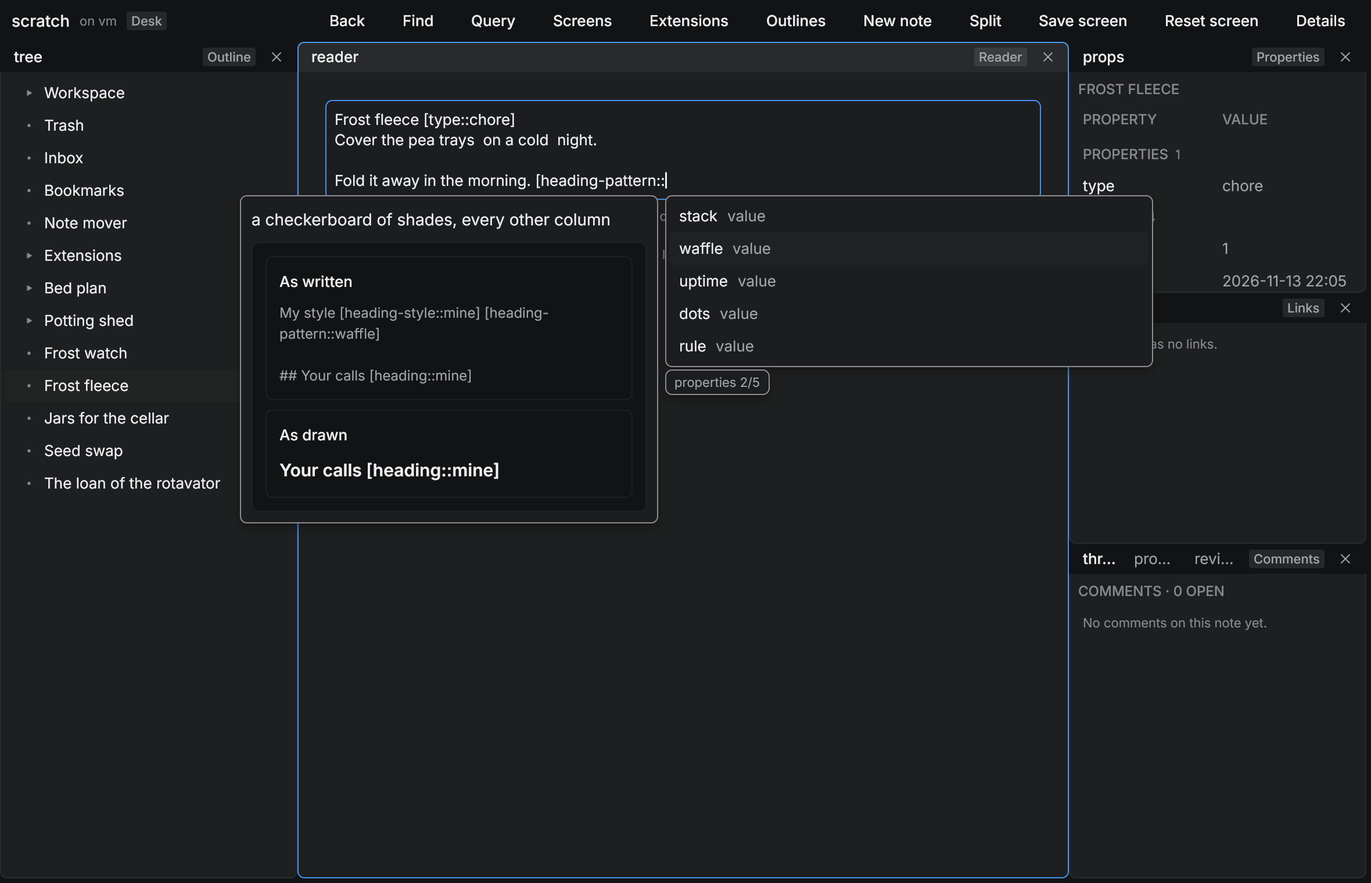
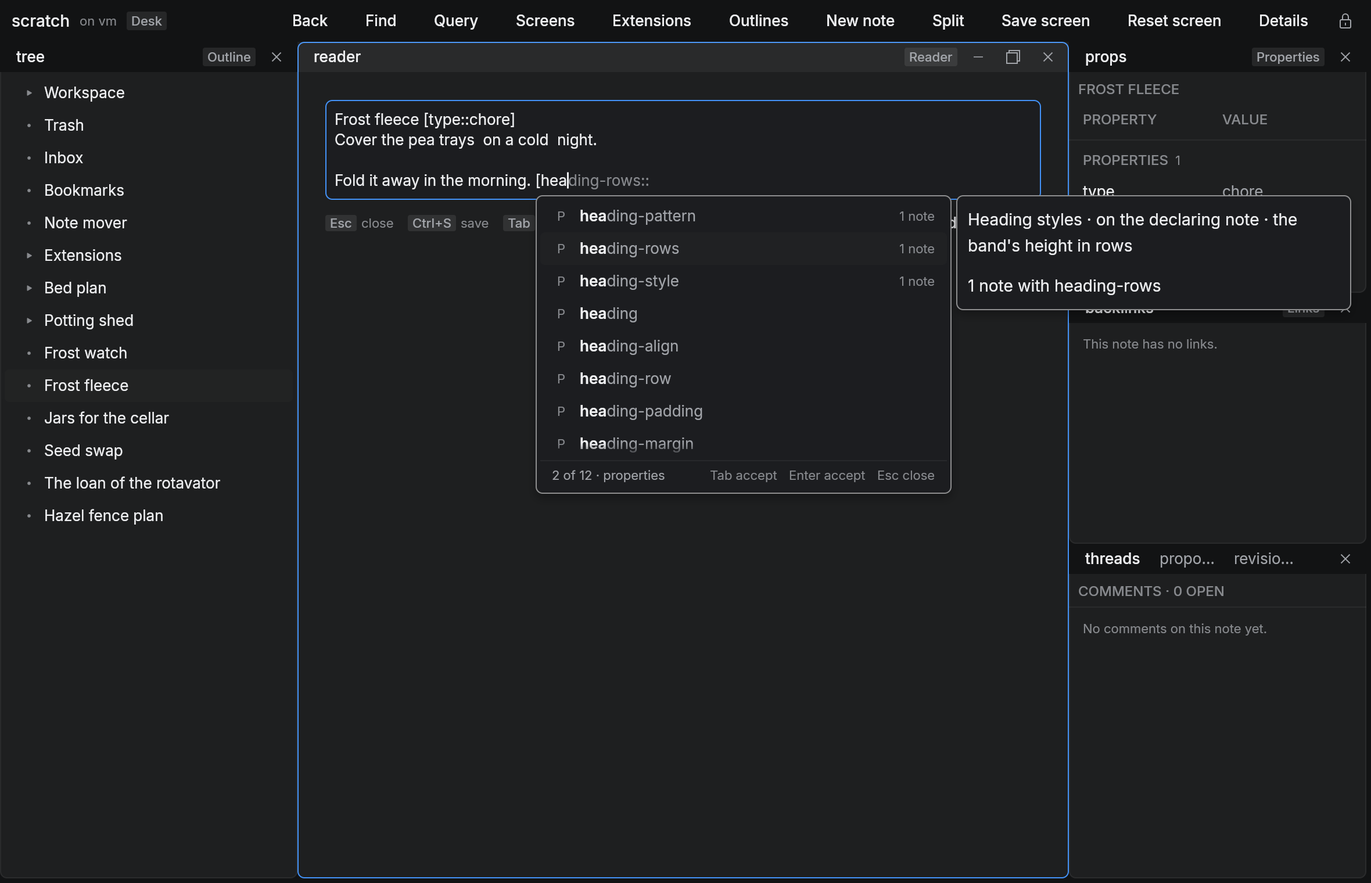
native H5: the scenes and their pictures, the live chain, and the scans that hold the one list
Claude-Session: https://claude.ai/code/session_01YahWSsU53UQFjh3cbq4VFn

diff --git a/packages/native/src/tests/live.rs b/packages/native/src/tests/live.rs
@@ -1417,3 +1417,79 @@ fn live_a_block_is_written_as_in_the_door_a_paste_keeps_its_lines_tab_indents_an
         assert!(words(&rt.state).ends_with(&format!("[heading-pattern::{}]", found.rows[1].label)), "{}", words(&rt.state));
     });
 }
+
+/// H5's sentence against a real outline host: a key, its value and a component are completed in a chain, by keys.
+/// A property's name begun shows the rest of the lit row after the caret; Tab takes the key and its values open
+/// at once, each row with its look as the service serves it; Tab takes a value, closes its bracket and puts the
+/// list away; `::` on a new line lists the components, and Tab writes the chosen one's skeleton from its own
+/// schema with the first stop selected, which Tab then steps. Each choice is counted on the host: asked again, the
+/// key chosen comes first among its equals. `cargo test -- --ignored live` (it needs bun).
+#[test]
+#[ignore = "starts an outline host with bun"]
+fn live_a_key_its_value_and_a_component_are_completed_in_a_chain_by_keys() {
+    use super::support::{chord, draft, press, rest, typed, window, words};
+    use crate::client::Socket;
+    use crate::keys::Layer;
+    use rune::{Key, Mods, Runtime};
+    with_host("completing", |path, root| {
+        let mut raw = Socket::connect(path);
+        let note = asked(&mut raw, json!({ "id": "b", "action": "create", "outline": "scratch", "parentId": null, "text": "Seed tray [type::tray]\nWhat came up this week.", "author": "user" })).unwrap();
+        let id = note["id"].as_str().unwrap().to_string();
+        fn until(rt: &mut Runtime<App>, what: &str, so: impl Fn(&App) -> bool) {
+            for _ in 0..400 { if so(&rt.state) { rest(rt); return } std::thread::sleep(Duration::from_millis(25)); rt.update(|s, _| { s.beat(); }); for _ in 0..3 { rt.frame(1.0 / 60.0); } }
+            panic!("{what} never came: notice {:?}, draft {:?}, list {:?}", rt.state.notice, draft(&rt.state).map(|d| d.buf.words().to_string()), rt.state.completing("reader").map(|found| found.rows.iter().map(|row| row.label.clone()).collect::<Vec<_>>()));
+        }
+        let mut app = App::new(Box::new(Socket::connect(path)), "scratch").arranged_in(root.join("state/native-scratch.layout.json"));
+        app.start();
+        opened(&mut app);
+        act(&mut app, &format!("open id={id}"));
+        let mut rt = window(app);
+        until(&mut rt, "the note's page", |s| s.page().is_some_and(|page| page.title == "Seed tray"));
+        press(&mut rt, "tile/reader/edit");
+        until(&mut rt, "the editor", |s| draft(s).is_some());
+        let first = |s: &App| s.completing_now("reader").and_then(|found| found.rows.first().cloned());
+
+        // A key begun: the service's rows, the first lit, and what of it is still to come after the caret.
+        chord(&mut rt, Key::Enter, Mods::default());
+        typed(&mut rt, "[heading-pat");
+        until(&mut rt, "the key", |s| first(s).is_some_and(|row| row.label == "heading-pattern"));
+        let key = first(&rt.state).unwrap();
+        assert_eq!((key.insert.as_str(), key.rest.as_deref(), key.next, key.matches.first()), ("[heading-pattern::", Some("tern::"), true, Some(&0)), "{key:?}");
+        assert!(rt.elements().into_iter().any(|e| e.key.as_deref() == Some("tile/reader/complete-rest") && e.text.as_deref() == Some("tern::")), "the rest is shown after the caret");
+        // Tab: the key is written, and its values are listed at once, each with its look.
+        chord(&mut rt, Key::Tab, Mods::default());
+        assert!(words(&rt.state).ends_with("\n[heading-pattern::"), "{}", words(&rt.state));
+        until(&mut rt, "the values", |s| s.completing_now("reader").is_some_and(|found| found.rows.len() == 5 && found.token.as_ref().is_some_and(|token| token.kind == "value")));
+        let values = rt.state.completing("reader").unwrap().clone();
+        assert!(values.rows.iter().all(|row| row.sample.as_ref().is_some_and(|sample| sample["type"] == "track" && sample["pattern"] == row.label.as_str())), "{values:?}");
+        for n in 0..5 { assert!(rt.elements().into_iter().any(|e| e.key.as_deref() == Some(&format!("tile/reader/complete/sample/{n}")) && e.rect[2] > 40.0), "row {n}'s sample is drawn") }
+        assert_eq!(rt.state.person().layer, Layer::Complete);
+        // Tab: the value, its bracket, the caret after it; the list is put away.
+        chord(&mut rt, Key::Tab, Mods::default());
+        let valued = format!("[heading-pattern::{}]", values.rows[0].label);
+        assert!(words(&rt.state).ends_with(&valued) && draft(&rt.state).unwrap().buf.ends().1 == words(&rt.state).len(), "{}", words(&rt.state));
+        until(&mut rt, "the list put away", |s| s.completing("reader").is_none());
+        assert_eq!(rt.state.person().layer, Layer::Draft);
+
+        // A component: its skeleton from its own schema, the first stop selected, Tab stepping the stops.
+        chord(&mut rt, Key::Enter, Mods::default());
+        typed(&mut rt, "::graph-met");
+        until(&mut rt, "the component", |s| first(s).is_some_and(|row| row.insert.starts_with("::graph-meter") && !row.slots.is_empty()));
+        let meter = first(&rt.state).unwrap();
+        chord(&mut rt, Key::Tab, Mods::default());
+        let text = words(&rt.state).to_string();
+        assert!(text.ends_with(&meter.insert), "{text}");
+        let start = text.len() - meter.insert.len();
+        let (from, to) = draft(&rt.state).unwrap().buf.ends();
+        assert_eq!((from - start, to - start, rt.state.person().layer), (meter.slots[0].start, meter.slots[0].end, Layer::Stops), "the first stop is selected (the skeleton is plain letters: its offsets are its bytes)");
+        chord(&mut rt, Key::Tab, Mods::default());
+        if meter.slots.len() > 1 { assert_eq!(draft(&rt.state).unwrap().buf.ends(), (start + meter.slots[1].start, start + meter.slots[1].end)) }
+        for _ in 1..meter.slots.len() { chord(&mut rt, Key::Tab, Mods::default()); }
+        assert_eq!(rt.state.person().layer, Layer::Draft, "past the last stop the keys are the draft's");
+
+        // The choices were counted on the host: asked again of nobody's draft, the key chosen leads its equals.
+        let again = asked(&mut raw, json!({ "id": "c", "action": "completion.rows", "outline": "scratch", "text": "[heading-", "cursor": 9 })).unwrap();
+        let labels: Vec<&str> = again["rows"].as_array().unwrap().iter().filter_map(|row| row["label"].as_str()).collect();
+        assert_eq!(labels.first(), Some(&"heading-pattern"), "{labels:?}");
+    });
+}

diff --git a/packages/native/src/tiles/page.rs b/packages/native/src/tiles/page.rs
@@ -340,6 +340,12 @@ fn over(cx: &TileCx, caret: Option<[f32; 4]>, k: &Kit, layer: &mut Vec<El>) {
     }
     let tagged = found.rows.iter().any(|row| row.kind.is_some());
     let width = found.rows.iter().map(|row| list::line_width(tagged, &row.label, row.sample.is_some(), row.detail.as_deref(), k)).fold(LIST_LEAST, f32::max).min(LIST_MOST);
+    // What the foot says, and the box no narrower than that: its count and its keys both read whole.
+    // (Measured with its last row lit, the widest it says: the box keeps its width as the lit row moves.)
+    let (said, keyed) = foot_words(cx, found, lit);
+    let small = |words: &str| rune::text::measure(words, &[], k.ty.small, None).0;
+    let widest = foot_words(cx, found, found.rows.len().saturating_sub(1)).0;
+    let width = width.max(20.0 + small(&widest) + 12.0 + keyed.iter().map(|hint| small(hint) + 10.0).sum::<f32>() + 20.0).min(LIST_MOST);
     let surface = cx.key("complete");
     let mut body = col().w_full().min_h(0.0);
     if found.rows.is_empty() {
@@ -366,7 +372,7 @@ fn over(cx: &TileCx, caret: Option<[f32; 4]>, k: &Kit, layer: &mut Vec<El>) {
                 }
             })));
     }
-    body = body.child(foot(cx, found, lit, k));
+    body = body.child(foot(cx, said, keyed, k));
     // A press on the box that is on no row goes no further (never to the page under it): it lights the row already lit.
     let (stays, stays_in, stays_too, stays_there) = (format!("complete.light n={}", lit + 1), cx.name.clone(), format!("complete.light n={}", lit + 1), cx.name.clone());
     let content = col().key(surface.clone()).role("group").label(found.heading.clone().unwrap_or_default()).preserve_focus_on_press(true).w(width).min_h(0.0).padding(4.0).child(body)
@@ -407,24 +413,29 @@ fn card_place(list: Option<[f32; 4]>, caret: Option<[f32; 4]>, width: f32, windo
     }
 }
 
-/// The list's foot, inside its box: which row of how many is lit and what it is a list of (the service's word),
-/// then what the keys do here, each read from the key table: the key that writes the lit row, Return (the row's
-/// own word for it while Return is still the field's), and the key that closes the list.
-fn foot(cx: &TileCx, found: &crate::page::Completion, lit: usize, k: &Kit) -> El {
-    let c = &k.c;
+/// What the list's foot says: which row of how many is lit and what it is a list of (the service's word), then what
+/// the keys do here, each read from the key table: the key that writes the lit row, Return (the row's own word for
+/// it while Return is still the field's), and the key that closes the list.
+fn foot_words(cx: &TileCx, found: &crate::page::Completion, lit: usize) -> (String, Vec<String>) {
     let count = (!found.rows.is_empty()).then(|| format!("{} of {}", lit + 1, found.rows.len()));
     let said = count.into_iter().chain(found.heading.clone().filter(|heading| !heading.is_empty())).collect::<Vec<_>>().join(" · ");
     let enters = found.rows.get(lit).and_then(|row| row.enter.as_deref()).filter(|_| cx.app.enter_fields(cx.id));
-    let mut keys: Vec<(String, String)> = Vec::new();
+    let mut keys: Vec<String> = Vec::new();
     if !found.rows.is_empty() {
-        keys.extend(keys::bind_of("complete.accept").map(|bind| (bind.cap(), bind.does.to_string())));
-        keys.extend(keys::bind_of("complete.enter").map(|bind| (bind.cap(), enters.map_or(bind.does.to_string(), str::to_string))));
+        keys.extend(keys::bind_of("complete.accept").map(|bind| format!("{} {}", bind.cap(), bind.does)));
+        keys.extend(keys::bind_of("complete.enter").map(|bind| format!("{} {}", bind.cap(), enters.unwrap_or(bind.does))));
     }
-    keys.extend(keys::esc(cx.app.writing(cx.id)).map(|bind| (bind.cap(), bind.does.to_string())));
-    let hints = keys.into_iter().fold(row().key(cx.key("complete/keys")).gap(10.0).center_y(), |line, (cap, does)| line.child(text(format!("{cap} {does}")).font(k.ty.small).color(c.text_faint)));
+    keys.extend(keys::esc(cx.app.writing(cx.id)).map(|bind| format!("{} {}", bind.cap(), bind.does)));
+    (said, keys)
+}
+
+/// The list's foot, inside its box, under a rule: what it says at the left, the keys at the right.
+fn foot(cx: &TileCx, said: String, keys: Vec<String>, k: &Kit) -> El {
+    let c = &k.c;
+    let hints = keys.into_iter().fold(row().key(cx.key("complete/keys")).gap(10.0).center_y().shrink().min_w(0.0).clip_soft(0.0), |line, hint| line.child(text(hint).font(k.ty.small).color(c.text_faint)));
     let line = row().w_full().h(24.0).px(10.0).gap(12.0).center_y()
-        .child(text(said).key(cx.key("complete/count")).font(k.ty.small).color(c.text_weak).truncate())
-        .child(el().grow(1.0).min_w(4.0))
+        .child(text(said).key(cx.key("complete/count")).font(k.ty.small).color(c.text_weak))
+        .child(el().grow(1.0).min_w(0.0))
         .child(hints);
     col().key(cx.key("complete/foot")).w_full().child(el().w_full().h(1.0).fill(c.border_muted)).child(line)
 }

diff --git a/packages/native/src/tests/one_owner.rs b/packages/native/src/tests/one_owner.rs
@@ -867,3 +867,40 @@ fn a_draft_s_level_its_pastes_and_what_a_completion_row_says_each_have_one_place
     assert!(page.contains("completing_lit(cx.id)") && page.contains("\"type\": \"blockdown\", \"text\": docs"), "the lit row's docs are its own words, built as Blockdown by the registry");
     for kind in ["heading-pattern", "property", "component", "callout"] { none("a completion row's kind read by the window", strays(&format!("\"{kind}\""), |path| path.starts_with("tests/"))) }
 }
+
+/// H5: what completes a word is one list with one row, hung by one surface; what a row is, what it has left to
+/// write and what choosing it leaves next are the service's words on the row; and nothing drawn over the window
+/// builds a list the way a page does.
+#[test]
+fn the_list_that_completes_a_word_is_the_one_list_and_reads_its_rows_as_served() {
+    let all = sources();
+    let text = |path: &str| all.iter().find(|(found, _)| found == path).unwrap_or_else(|| panic!("{path}")).1.clone();
+    // One row anatomy: the bar's rows and the completion list's are `list::line`, built nowhere else; the kit's own
+    // popup list (rows of its own, no foot, a fixed width) is named nowhere.
+    none("a list row laid out beside `list::line`", strays("list::line(", |path| path == "bar.rs" || path == "tiles/page.rs"));
+    assert!(text("bar.rs").contains("list::line(list::Line {") && text("tiles/page.rs").contains("list::line(list::Line {"), "the bar and the completion list draw the one row");
+    none("the kit's popup list beside the one list", ["PopupList", "PopupItem"].iter().flat_map(|word| strays(word, |_| false)).collect());
+    // Whatever is drawn over the window (a drawer's `over`) is in no scroll of the page's: every primitive built
+    // there is built as one under a row is (`in_row`), so a list in it is built whole and never as virtual rows,
+    // which Rune allows only in a scroll's own stack ("virtual stack must be inside a scroll viewport").
+    let page = text("tiles/page.rs");
+    let over = &page[page.find("\nfn over(").expect("the page drawer's overlay")..];
+    assert!(over.matches("PrimCx::of(cx)").count() >= 2 && over.matches("PrimCx::of(cx)").count() == over.matches("PrimCx::of(cx).in_row()").count(), "a primitive built over the window is built in_row");
+    none("rows built in view outside a scroll of their own in the overlay", over.lines().filter(|line| line.contains("list::rows(") || line.contains("list::bounded(")).map(str::to_string).collect());
+    // The window finds no token and measures no match: where the token starts, which letters matched, what is still
+    // to come, whether more follows and what is made first are fields of the served row and its answer.
+    none("a token looked for in the draft's words", ["rfind(\"[[\")", "rfind('[')", "strip_prefix(\"::\")", "find(\"::\")"].iter().flat_map(|word| strays(word, |_| false)).collect());
+    none("letters matched here: the service says which", ["to_lowercase().find(", "fuzzy"].iter().flat_map(|word| strays(word, |path| path == "bar.rs")).collect());
+    for field in ["row.rest", "row.next", "row.makes", "row.slots"] { none(&format!("{field} read outside the draft's own actions and the model"), strays(field, |path| path == "actions/draft.rs" || path == "actions/app.rs")) }
+    // A choice is counted in one request, made where a row is written and where the person typed the row out.
+    none("a choice counted somewhere new", strays("\"completion.picked\"", |path| path == "actions/draft.rs" || path == "actions/app.rs"));
+    // One key, three layers, each a row of the table: Tab writes the lit row while the list is open, steps the
+    // stops while a skeleton is being filled in, and indents the line otherwise. Return and Escape the same way.
+    let bound = |chord: &str, layer: &str| crate::keys::table().iter().find(|bind| bind.spec == chord && bind.layer.map(crate::keys::Layer::name) == Some(layer)).map(|bind| bind.action);
+    assert_eq!((bound("tab", "complete"), bound("tab", "stops"), bound("tab", "draft")), (Some("complete.accept"), Some("snippet.next"), Some("draft.indent")));
+    assert_eq!((bound("shift+tab", "stops"), bound("shift+tab", "draft"), bound("enter", "complete")), (Some("snippet.previous"), Some("draft.outdent"), Some("complete.enter")));
+    assert_eq!((bound("escape", "said"), bound("escape", "stops"), bound("escape", "draft")), (Some("complete.dismiss"), Some("snippet.end"), Some("edit.close")));
+    // A heading style's cells are worked out in the model, once, and painted by the one builder of a band.
+    none("a glyph track's cells worked out beside `band.rs`", strays("band::cell(", |path| path == "band.rs"));
+    none("a track painted beside the band's builder", ["Ink::Shade", "Ink::Double", "band::Ink"].iter().flat_map(|word| strays(word, |path| path == "band.rs" || path == "tiles/band.rs")).collect());
+}

diff --git a/packages/native/src/tests/complete.rs b/packages/native/src/tests/complete.rs
@@ -115,7 +115,7 @@ fn a_row_shows_its_kind_its_matched_letters_its_look_and_one_detail_and_the_card
     // Tab takes the key and its values open at once: each with its look in the row, a primitive built by the registry.
     chord(&mut rt, Key::Tab, Mods::default());
     assert_eq!(labels(&rt), ["dots", "uptime", "waffle", "stack", "rule"]);
-    for n in 0..5 { assert!(rt.elements().iter().any(|e| e.key.as_deref() == Some(&format!("tile/reader/complete/sample/{n}"))), "row {n} draws its sample") }
+    for n in 0..5 { let (sample, row) = (rect(&rt, &format!("tile/reader/complete/sample/{n}")), rect(&rt, &format!("tile/reader/complete/row/{n}"))); assert!(sample[2] >= 60.0 && sample[3] >= 8.0 && sample[1] >= row[1] && sample[1] + sample[3] <= row[1] + row[3], "row {n} draws its sample in the row: {sample:?} in {row:?}") }
     // The card: the lit value's own words, and its look on an example heading, drawn (a band, never "as drawn" over words).
     let card = within(&rt, "tile/reader/complete-docs");
     assert!(card.iter().any(|said| said == "sparse dots, now and then a bright one") && card.iter().any(|said| said == "Your calls") && !card.iter().any(|said| said == "As drawn"), "{card:?}");
@@ -164,7 +164,7 @@ fn return_is_the_field_s_until_a_row_is_chosen_or_the_list_is_asked_for() {
     typed(&mut rt, "[");
     assert_eq!((rt.state.person().layer, labels(&rt).len()), (Layer::Complete, 6));
     let foot = |rt: &Runtime<App>| within(rt, "tile/reader/complete/foot");
-    assert_eq!(foot(&rt), ["1 of 6 · properties", "Tab accept", "Enter new line", "Esc close the list"], "the foot, from the table and the row");
+    assert_eq!(foot(&rt), ["1 of 6 · properties", "Tab accept", "Enter new line", "Esc close"], "the foot, from the table and the row");
     chord(&mut rt, Key::Enter, Mods::default());
     assert_eq!(words(&rt.state), format!("{PLOT}\n[\n"), "nothing was chosen: Return typed a line");
     // A row moved to is a choice: the foot says Return accepts now, and it does.
@@ -355,7 +355,7 @@ fn the_pointer_lights_a_row_the_wheel_scrolls_the_list_and_a_press_accepts() {
 fn a_page_nobody_has_written_is_offered_and_made_when_its_row_is_chosen() {
     let (mut rt, asked) = writing();
     typed(&mut rt, "[[zz");
-    assert_eq!((rt.state.person().layer, within(&rt, "tile/reader/complete")), (Layer::Said, vec!["no page by that name yet".to_string(), "pages".into(), "Esc close the list".into()]));
+    assert_eq!((rt.state.person().layer, within(&rt, "tile/reader/complete")), (Layer::Said, vec!["no page by that name yet".to_string(), "pages".into(), "Esc close".into()]));
     typed(&mut rt, "zz");
     assert_eq!(labels(&rt), ["+ new page [[zzzz]]"]);
     chord(&mut rt, Key::Tab, Mods::default());

diff --git a/packages/native/src/tests/drafts.rs b/packages/native/src/tests/drafts.rs
@@ -55,7 +55,7 @@ fn a_block_is_typed_in_completed_from_the_service_s_list_and_saved() {
     // The hint row under the block's field says the keys of the layer they are in: the list's, while it is open.
     assert!(rt.find("tile/reader/editor-keys").is_some());
     let hints: Vec<String> = rt.elements().into_iter().filter_map(|e| e.text).collect();
-    assert!(["close the list", "accept"].iter().all(|does| hints.iter().any(|said| said == does)) && !hints.iter().any(|said| said == "done"), "the list's keys, not the draft's: {hints:?}");
+    assert!(["close", "accept"].iter().all(|does| hints.iter().any(|said| said == does)) && !hints.iter().any(|said| said == "done"), "the list's keys, not the draft's: {hints:?}");
     for n in 0..3 { assert!(rt.find(&format!("tile/reader/complete/row/{n}")).is_some(), "row {} of the list is drawn", n + 1) }
     // One more letter narrows it: asked again for what is there now.
     typed(&mut rt, "h");
@@ -456,7 +456,7 @@ fn a_list_with_nothing_to_choose_from_keeps_only_escape() {
     assert_eq!(rt.state.person().layer, Layer::Said);
     chord(&mut rt, Key::Escape, Mods::default());
     assert_eq!((rt.state.person().layer, rt.state.completing("reader").is_none(), draft(&rt.state).is_some()), (Layer::Draft, true, true), "Escape puts the list away and leaves the block");
-    assert_eq!(crate::keys::hints(Layer::Said).first().map(|(_, does)| *does), Some("close the list"), "a list with only a word to say: Escape is its own");
+    assert_eq!(crate::keys::hints(Layer::Said).first().map(|(_, does)| *does), Some("close"), "a list with only a word to say: Escape is its own");
     assert_eq!(crate::keys::hints(Layer::Said)[1..], crate::keys::hints(Layer::Draft)[1..], "and every other key is the draft's still");
     typed(&mut rt, "z");
     assert_eq!(rt.state.person().layer, Layer::Said, "typed on, it says so again");

diff --git a/packages/native/src/actions/app.rs b/packages/native/src/actions/app.rs
@@ -756,13 +756,14 @@ impl App {
     /// The window's clock moved to `now` (the frame's poll). True when what is drawn changes with it: the lit row
     /// has been lit long enough for its card. And how long until that, when a list is open and its card is not shown yet.
     pub fn tick(&mut self, now: f64) -> (bool, Option<std::time::Duration>) {
-        self.st.now = now;
+        // (The clock never goes back: a headless render is stepped past the quiet once, before its one frame.)
+        self.st.now = self.st.now.max(now);
         let focus = self.layout.focus.clone();
         let open = self.completing_now(&focus).is_some();
         let carded = self.completing_card(&focus).is_some();
         let changed = carded != self.carded;
         if changed { self.st.carded = carded }
-        let due = (open && !carded).then(|| self.draft_on(&focus).map(|draft| (draft.completing.since + draft::CARD_QUIET - now).max(0.0))).flatten();
+        let due = (open && !carded).then(|| self.draft_on(&focus).map(|draft| (draft.completing.since + draft::CARD_QUIET - self.now).max(0.0))).flatten();
         (changed, due.map(|due| std::time::Duration::from_secs_f64(due + 0.01)))
     }
 

diff --git a/packages/native/src/list.rs b/packages/native/src/list.rs
@@ -96,7 +96,7 @@ pub fn line(line: Line, lit: bool, k: &Kit) -> El {
     let tag = line.tag.map(|(tag, whole)| el().w(TAG).min_w(TAG).center().child(text(tag).font(k.ty.small).color(c.text_faint)).help(whole));
     let label = marked(&line.label, &line.marks, if line.tall { k.ty.ui_medium } else { k.ty.ui_compact }, k);
     let detail = line.detail.filter(|detail| !detail.is_empty()).map(|detail| text(detail).font(k.ty.small).color(c.text_faint).truncate());
-    let sample = line.sample.map(|sample| el().w(SAMPLE).min_w(SAMPLE).center_y().clip_soft(0.0).child(sample));
+    let sample = line.sample.map(|sample| row().w(SAMPLE).min_w(SAMPLE).center_y().clip_soft(0.0).child(sample));
     let cap = line.keycap.map(|cap| Keybind::new(&[cap.as_str()]).build(k));
     let fill = if lit { c.surface_hover } else { rune::Color::TRANSPARENT };
     if line.tall {

diff --git a/packages/native/src/tiles/band.rs b/packages/native/src/tiles/band.rs
@@ -45,7 +45,7 @@ fn across(key: &str, guess: usize) -> usize { rune::memo::layout_with(key, |at| 
 pub fn track(prim: &Value, cx: &PrimCx, k: &Kit) -> El {
     let pattern = prim["pattern"].as_str().unwrap_or("rule");
     let room = across(&cx.key(), 16);
-    side(band::strip(pattern, 1, 0, room.min(MOST), room, 2, band::seed_of(pattern)), false, k).key(cx.key()).w_full().grow(0.0).role("img").label(pattern.to_string())
+    side(band::strip(pattern, 1, 0, room.min(MOST), room, 2, band::seed_of(pattern)), false, k).key(cx.key()).w_full().role("img").label(pattern.to_string())
 }
 
 /// A band: a heading on a row of its pattern's rows. Centred, the words stand in the middle with a track fading in

diff --git a/packages/native/src/tests/review.rs b/packages/native/src/tests/review.rs
@@ -508,7 +508,7 @@ fn the_hint_row_under_a_field_says_the_keys_of_where_the_person_is() {
     typed(&mut rt, "See [[s");
     assert_eq!(rt.state.person().layer, Layer::Complete);
     let said = hints(&rt);
-    assert!(said.iter().any(|does| does == "accept") && said.iter().any(|does| does == "close the list") && !said.iter().any(|does| does == "done"), "{said:?}");
+    assert!(said.iter().any(|does| does == "accept") && said.iter().any(|does| does == "close") && !said.iter().any(|does| does == "done"), "{said:?}");
     chord(&mut rt, Key::Escape, Mods::default());
     assert!(hints(&rt).iter().any(|does| does == "save"), "the list put away, the keys are the editor's again");
 }

diff --git a/packages/native/src/actions/draft.rs b/packages/native/src/actions/draft.rs
@@ -113,7 +113,7 @@ static ASK: ActionRow = ActionRow::new("complete.ask", Touches::Draft, "open the
 
 static DISMISS: ActionRow = ActionRow::new("complete.dismiss", Touches::Draft, "close the open completion list, leaving what's typed as it is: it opens again when more is typed")
     .person(THEIRS)
-    .keys(&[KeyRow::on("escape", "said", "close the list")]);
+    .keys(&[KeyRow::on("escape", "said", "close")]);
 
 static STOP_NEXT: ActionRow = ActionRow::new("snippet.next", Touches::Draft, "select the next stop of the skeleton a completion wrote; after the last, the caret goes past it and the stops are done")
     .person(THEIRS)

diff --git a/packages/native/src/main.rs b/packages/native/src/main.rs
@@ -80,7 +80,8 @@ fn init() -> App {
     if headless { app.settle(); }
     if let Some(file) = flag("--act") {
         match std::fs::read_to_string(&file) {
-            Ok(lines) => { app.script(&lines); }
+            // (A headless render draws one frame: its clock is stepped past the moment a lit row waits for its card.)
+            Ok(lines) => { app.script(&lines); if headless { let quiet = app.now + 2.0 * draft::CARD_QUIET; app.tick(quiet); } }
             Err(e) => eprintln!("ep0ch-native: can't read {file}: {e}"),
         }
     }
